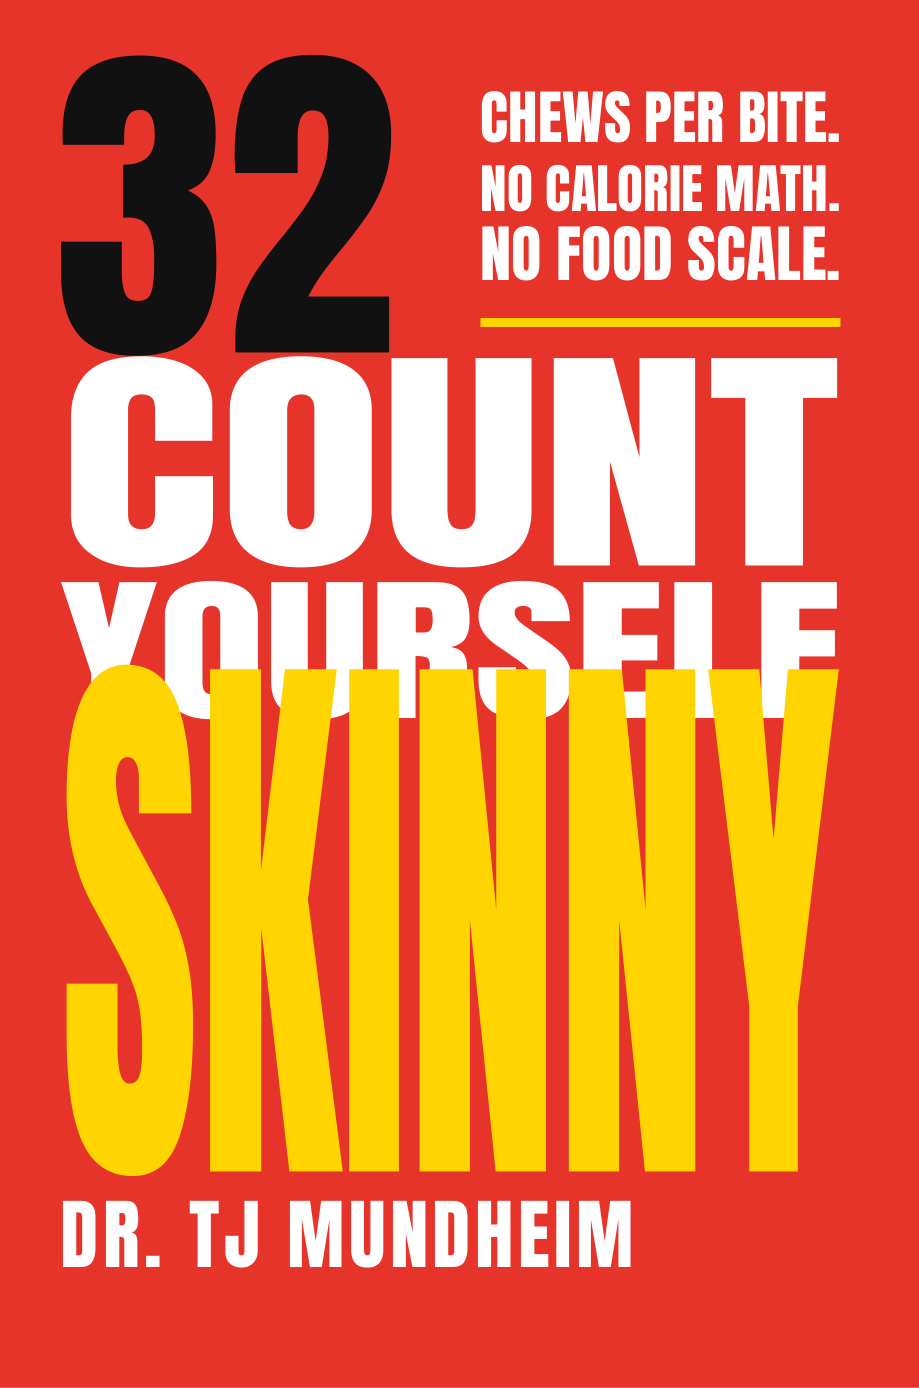
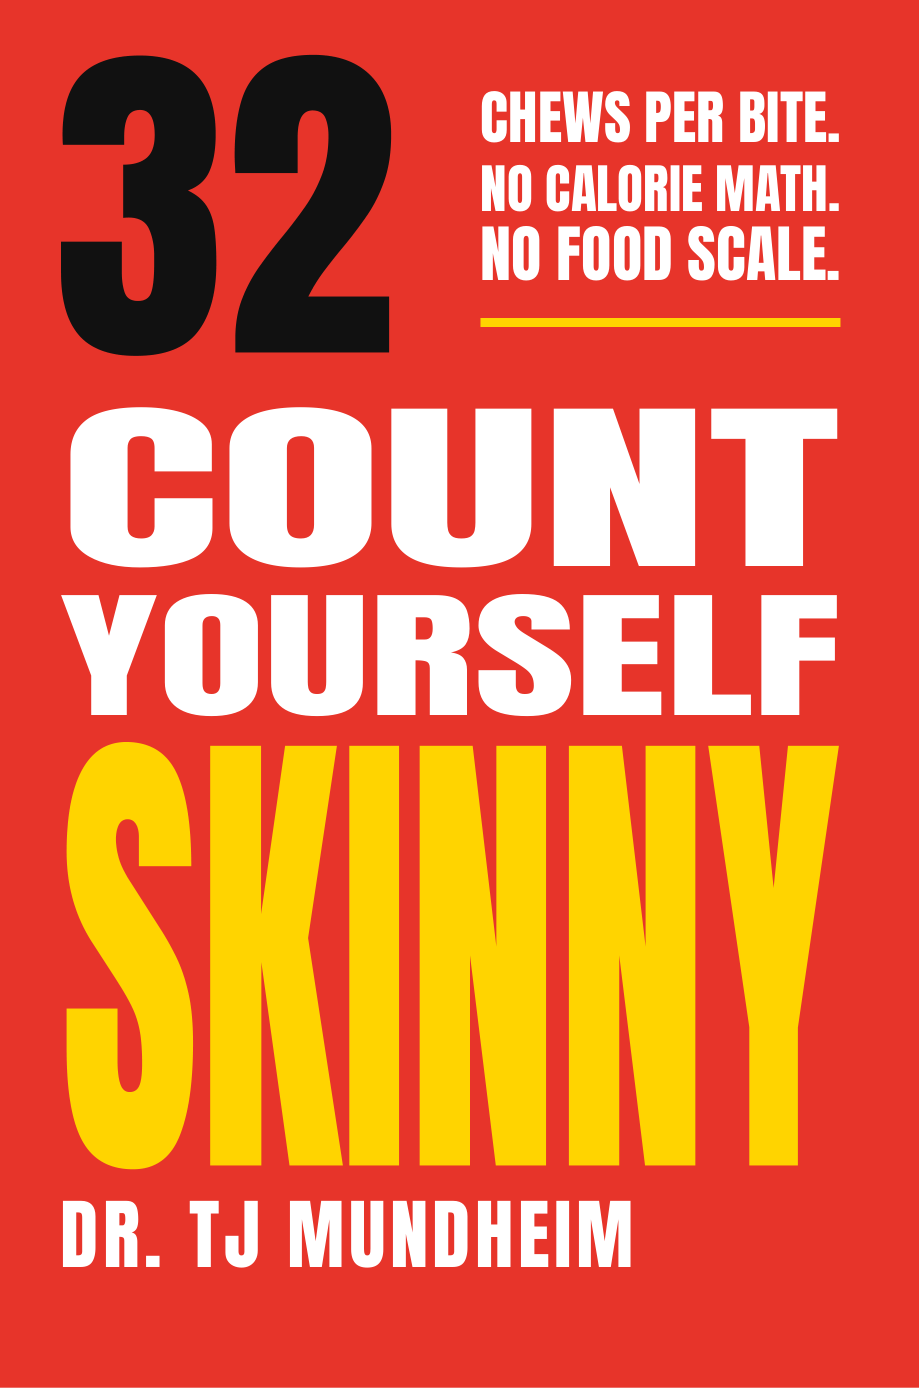
CYS cover: fix line heights after font swap (previous commit had SKINNY over YOURSELF)

diff --git a/docs/book-cys/cover/full-cover-paperback-6x9.html b/docs/book-cys/cover/full-cover-paperback-6x9.html
@@ -16,7 +16,7 @@ html,body{width:12.435in;height:9.25in;background:#E8352B;overflow:hidden}
 .blurb{font-size:13pt;line-height:1.45;margin-bottom:0.18in;width:4.9in}
 .url{position:absolute;left:0.525in;top:8.55in;font-family:Arial;font-weight:700;font-size:9pt;letter-spacing:.04em;color:#fff}
 </style></head><body>
-<svg class="art" viewBox="0 0 12.435 9.25" width="12.435in" height="9.25in" xmlns="http://www.w3.org/2000/svg" font-family="Anton"><text transform="translate(6.710,3.770) scale(1,0.72)" font-size="2.2340" fill="#fff">COUNT</text><text transform="translate(6.710,4.790) scale(1,0.72)" font-size="1.4639" fill="#fff">YOURSELF</text><text transform="translate(6.710,7.810) scale(1,1.95)" font-size="1.9980" fill="#FFD400">SKINNY</text><text x="6.670" y="2.35" font-size="2.3" fill="#111">32</text><text x="9.510" y="0.950" font-size="0.3916" fill="#fff">CHEWS PER BITE.</text><text x="9.510" y="1.410" font-size="0.3547" fill="#fff">NO CALORIE MATH.</text><text x="9.510" y="1.870" font-size="0.4155" fill="#fff">NO FOOD SCALE.</text><rect x="9.510" y="2.12" width="2.4" height="0.06" fill="#FFD400"/><text x="6.710" y="8.45" font-size="0.5134" fill="#fff" letter-spacing="0.03">DR. TJ MUNDHEIM</text></svg>
+<svg class="art" viewBox="0 0 12.435 9.25" width="12.435in" height="9.25in" xmlns="http://www.w3.org/2000/svg" font-family="Anton"><text transform="translate(6.710,3.770) scale(1,0.5465)" font-size="2.2340" fill="#fff">COUNT</text><text transform="translate(6.710,4.770) scale(1,0.6355)" font-size="1.4639" fill="#fff">YOURSELF</text><text transform="translate(6.710,7.770) scale(1,1.6295)" font-size="1.9980" fill="#FFD400">SKINNY</text><text x="6.670" y="2.35" font-size="2.3" fill="#111">32</text><text x="9.510" y="0.950" font-size="0.3916" fill="#fff">CHEWS PER BITE.</text><text x="9.510" y="1.410" font-size="0.3547" fill="#fff">NO CALORIE MATH.</text><text x="9.510" y="1.870" font-size="0.4155" fill="#fff">NO FOOD SCALE.</text><rect x="9.510" y="2.12" width="2.4" height="0.06" fill="#FFD400"/><text x="6.710" y="8.45" font-size="0.5134" fill="#fff" letter-spacing="0.03">DR. TJ MUNDHEIM</text></svg>
 <div class="back">
 <div class="quote">The diet industry got fat.<br>This book got skinny.</div>
 <div class="rule"></div>

diff --git a/docs/book-cys/cover/build_cover.py b/docs/book-cys/cover/build_cover.py
@@ -14,16 +14,18 @@ IX = FX + 0.4                          # inner text left (0.4in inside trim)
 TW = 5.2                               # headline width
 imp = fitz.Font(fontfile='/Users/thomasmundheim/Development/LDRGLPRx/docs/design/cys/fonts/Anton-Regular.ttf')
 def size_for(txt, width): return width / imp.text_length(txt, fontsize=1)
-CAP = 0.79
-def line(txt, base, sy, fill, width=TW):
+CAP = 0.86                             # Anton capital height per em, measured by rendering 'H'
+def line(txt, base, height, fill, width=TW):
+    """One justified line: fits the width, then scales vertically to an exact cap height (inches)."""
     s = size_for(txt, width)
-    return (f'<text transform="translate({IX:.3f},{base:.3f}) scale(1,{sy})" font-size="{s:.4f}" fill="{fill}">{txt}</text>', s*CAP*sy)
-y = 2.72
+    sy = height / (s * CAP)
+    return (f'<text transform="translate({IX:.3f},{base:.3f}) scale(1,{sy:.4f})" font-size="{s:.4f}" fill="{fill}">{txt}</text>', height)
+TOP, GAP, H1, H2, H3 = 2.72, 0.2, 1.05, 0.80, 2.80
 parts = []
-t, h1 = line('COUNT', y + 1.05, 0.72, '#fff');            parts.append(t)
-t, h2 = line('YOURSELF', y + 1.05 + 0.22 + 0.80, 0.72, '#fff'); parts.append(t)
-sk_base = y + 1.05 + 0.22 + 0.80 + 0.22 + 2.80
-t, h3 = line('SKINNY', sk_base, 1.95, '#FFD400');        parts.append(t)
+b1 = TOP + H1; b2 = b1 + GAP + H2; b3 = b2 + GAP + H3
+t, h1 = line('COUNT', b1, H1, '#fff');          parts.append(t)
+t, h2 = line('YOURSELF', b2, H2, '#fff');       parts.append(t)
+t, h3 = line('SKINNY', b3, H3, '#FFD400');      parts.append(t)
 s32 = 2.3
 parts.append(f'<text x="{IX-0.04:.3f}" y="2.35" font-size="{s32}" fill="#111">32</text>')
 for i, tx in enumerate(['CHEWS PER BITE.', 'NO CALORIE MATH.', 'NO FOOD SCALE.']):
